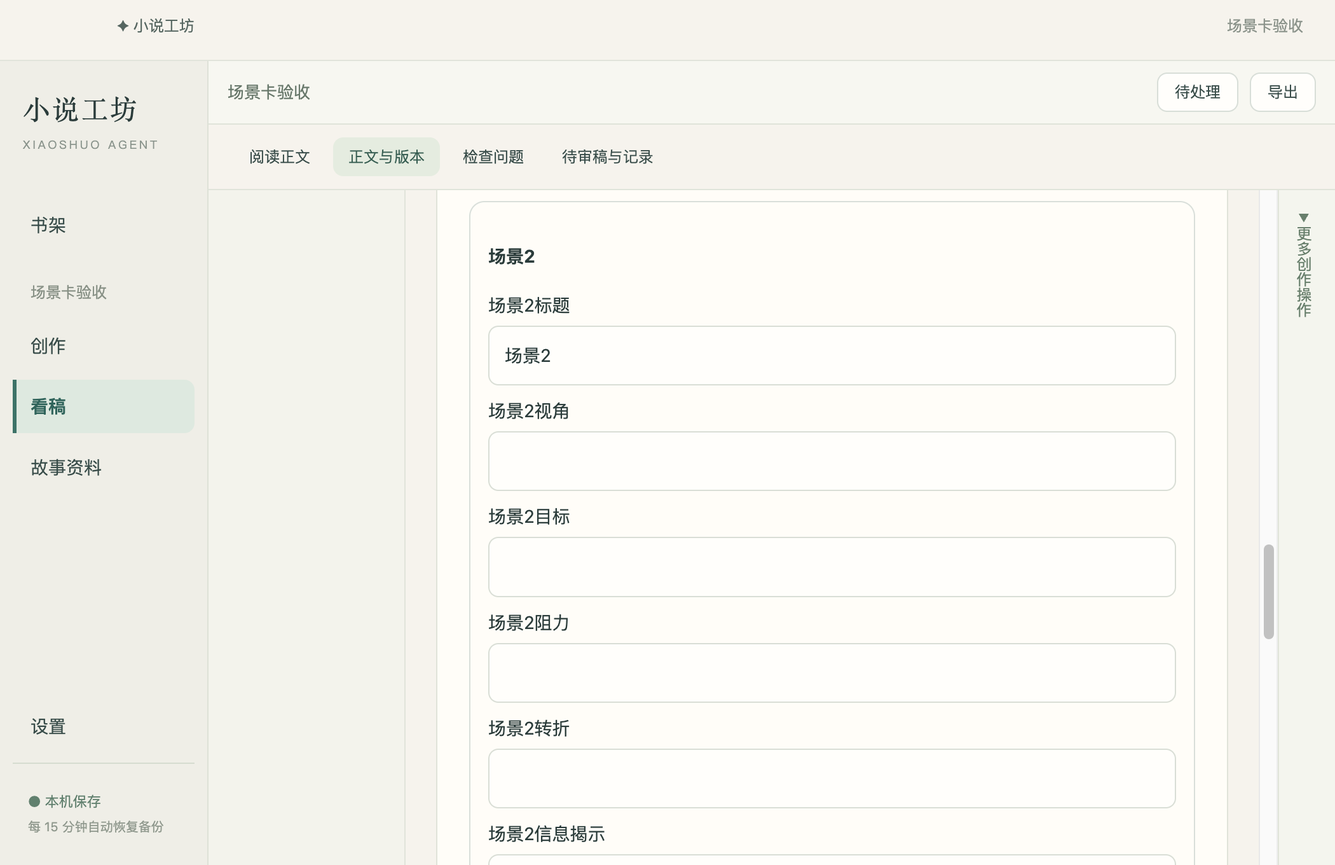
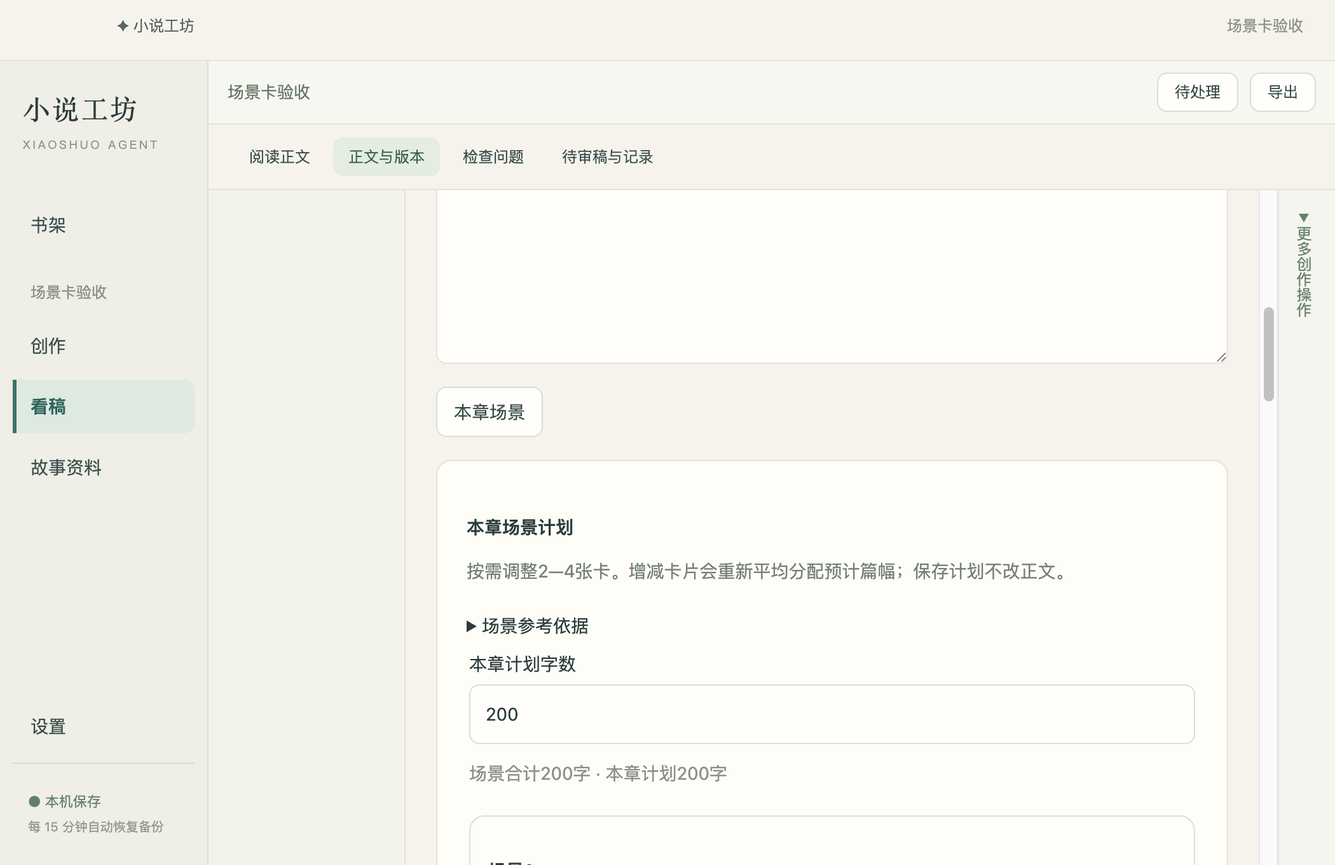
fix: enforce scene selection authority and per-chapter targets

diff --git a/tests/scene-revision.test.ts b/tests/scene-revision.test.ts
@@ -1,12 +1,20 @@
+import {createHash} from "node:crypto";
 import {afterEach,expect,it} from "vitest";import {AppServices} from "../src/main/services";
-import {createServer,type ServerResponse} from "node:http";import {mkdtempSync,rmSync} from "node:fs";import {join} from "node:path";import {tmpdir} from "node:os";
+import {createServer,type ServerResponse} from "node:http";import {mkdtempSync,rmSync,readFileSync,writeFileSync} from "node:fs";import {join} from "node:path";import {tmpdir} from "node:os";
 const cleanups:(()=>Promise<void>)[]=[];afterEach(async()=>{for(const f of cleanups.splice(0).reverse())await f();});
 const id=(r:any)=>{expect(r.ok,r.ok?"":r.error?.message).toBe(true);return r.entityId as string;};
 function reply(res:ServerResponse,data:any){res.setHeader("content-type","application/json");res.end(JSON.stringify({choices:[{message:{content:JSON.stringify(data)}}],usage:{prompt_tokens:10,completion_tokens:20,total_tokens:30}}));}
-async function setup(custom?:(data:any,res:ServerResponse)=>boolean){const calls:any[]=[];let path="";const server=createServer(async(req,res)=>{let raw="";for await(const c of req)raw+=c;const body=JSON.parse(raw),data=JSON.parse(body.messages.at(-1).content);calls.push(data);if(custom?.(data,res))return;reply(res,{message:"只调整视角与冲突。",replacement:"阿宁隔着门听见老周的呼吸，手停在锁上。"});});await new Promise<void>(r=>server.listen(0,"127.0.0.1",r));const dir=mkdtempSync(join(tmpdir(),"scene-revise-"));const app=new AppServices({dataDir:dir,dialogs:{open:async()=>path,save:async()=>path}});cleanups.push(async()=>{await app.dispose();await new Promise<void>(r=>{server.closeAllConnections();server.close(()=>r());});rmSync(dir,{recursive:true,force:true});});const projectId=id(await app.dispatch({type:"project.create",title:"旧城",chapterWords:200}));id(await app.dispatch({type:"profile.save",name:"fixture",purpose:"writing",model:"fixture",baseUrl:`http://127.0.0.1:${(server.address() as any).port}`}));const priorId=id(await app.dispatch({type:"chapter.create",projectId,ordinal:1,title:"信"}));const evidence="钥匙在阿宁手中。";id(await app.dispatch({type:"chapter.save",id:priorId,revision:1,content:evidence}));id(await app.dispatch({type:"chapter.confirm",id:priorId,revision:2}));const stateId=id(await app.dispatch({type:"story.save",projectId,entry:{kind:"item",subject:"钥匙",attribute:"持有人",value:"阿宁",statement:"fact",storyTime:""},evidence:[{chapterId:priorId,revision:3,start:0,end:evidence.length}]}));id(await app.dispatch({type:"story.confirm",id:stateId,revision:1}));const chapterId=id(await app.dispatch({type:"chapter.create",projectId,ordinal:2,title:"雨夜"}));const before="雨落在旧城。\n阿宁推开门。\n门外响起脚步。";id(await app.dispatch({type:"chapter.save",id:chapterId,revision:1,content:before}));const quote="阿宁推开门。",start=before.indexOf(quote);const cards=Array.from({length:2},(_,i)=>({title:`场景${i}`,pov:"阿宁",goal:"找信",obstacle:"锁门",turn:"解暗号",reveal:"旧城",words:100,hook:"脚步",...(i===0?{anchor:{chapterId,revision:2,start,end:start+quote.length,quote}}:{})}));const planId=id(await app.dispatch({type:"scene.save",projectId,chapterId,targetWords:200,cards}));return{app,projectId,chapterId,priorId,stateId,planId,before,calls,backup:async()=>{path=join(dir,"book.novel");id(await app.dispatch({type:"file.backup",projectId}));return id(await app.dispatch({type:"file.importBackup"}));}};}
+async function setup(custom?:(data:any,res:ServerResponse)=>boolean){const calls:any[]=[];let path="";const server=createServer(async(req,res)=>{let raw="";for await(const c of req)raw+=c;const body=JSON.parse(raw),data=JSON.parse(body.messages.at(-1).content);calls.push(data);if(custom?.(data,res))return;reply(res,{message:"只调整视角与冲突。",replacement:"阿宁隔着门听见老周的呼吸，手停在锁上。"});});await new Promise<void>(r=>server.listen(0,"127.0.0.1",r));const dir=mkdtempSync(join(tmpdir(),"scene-revise-"));const app=new AppServices({dataDir:dir,dialogs:{open:async()=>path,save:async()=>path}});cleanups.push(async()=>{await app.dispose();await new Promise<void>(r=>{server.closeAllConnections();server.close(()=>r());});rmSync(dir,{recursive:true,force:true});});const projectId=id(await app.dispatch({type:"project.create",title:"旧城",chapterWords:200}));id(await app.dispatch({type:"profile.save",name:"fixture",purpose:"writing",model:"fixture",baseUrl:`http://127.0.0.1:${(server.address() as any).port}`}));const priorId=id(await app.dispatch({type:"chapter.create",projectId,ordinal:1,title:"信"}));const evidence="钥匙在阿宁手中。";id(await app.dispatch({type:"chapter.save",id:priorId,revision:1,content:evidence}));id(await app.dispatch({type:"chapter.confirm",id:priorId,revision:2}));const stateId=id(await app.dispatch({type:"story.save",projectId,entry:{kind:"item",subject:"钥匙",attribute:"持有人",value:"阿宁",statement:"fact",storyTime:""},evidence:[{chapterId:priorId,revision:3,start:0,end:evidence.length}]}));id(await app.dispatch({type:"story.confirm",id:stateId,revision:1}));const chapterId=id(await app.dispatch({type:"chapter.create",projectId,ordinal:2,title:"雨夜"}));const before="雨落在旧城。\n阿宁推开门。\n门外响起脚步。";id(await app.dispatch({type:"chapter.save",id:chapterId,revision:1,content:before}));const quote="阿宁推开门。",start=before.indexOf(quote);const cards=Array.from({length:2},(_,i)=>({title:`场景${i}`,pov:"阿宁",goal:"找信",obstacle:"锁门",turn:"解暗号",reveal:"旧城",words:100,hook:"脚步",...(i===0?{anchor:{chapterId,revision:2,start,end:start+quote.length,quote}}:{})}));const planId=id(await app.dispatch({type:"scene.save",projectId,chapterId,targetWords:200,cards}));return{app,dir,projectId,chapterId,priorId,stateId,planId,before,calls,backup:async(tamper?:(pack:any)=>void)=>{path=join(dir,"book.novel");id(await app.dispatch({type:"file.backup",projectId}));if(tamper){const pack=JSON.parse(readFileSync(path,"utf8"));tamper(pack);pack.sha256=createHash("sha256").update(JSON.stringify(pack.payload)).digest("hex");writeFileSync(path,JSON.stringify(pack));}const result=await app.dispatch({type:"file.importBackup"});if(!result.ok)throw Error(result.error.message);return result.entityId;}};}
 async function start(f:Awaited<ReturnType<typeof setup>>){const p=f.app.scenePlan(f.planId);return id(await f.app.dispatch({type:"scene.revise",id:p.id,revision:p.revision,cardId:p.cards[0].id,text:"只调整此场景视角，补足锁门的阻力，不改变剧情方向",tokenBudget:100000}));}
 async function done(app:AppServices,jid:string){await expect.poll(()=>app.snapshot().revisionJobs?.find(j=>j.id===jid)?.status).not.toBe("running");return app.snapshot().revisionJobs!.find(j=>j.id===jid)!;}
 it("keeps the exact prefix, suffix and title and requires author adoption of a scene replacement",async()=>{const f=await setup(),jid=await start(f),j=await done(f.app,jid);expect(j.status,j.reply).toBe("awaiting-author");expect(j.candidates[0].content).toBe(f.before.replace("阿宁推开门。","阿宁隔着门听见老周的呼吸，手停在锁上。"));expect(f.app.snapshot().chapters.find(c=>c.id===f.chapterId)?.content).toBe(f.before);expect(f.calls[0].scene.goal).toBe("找信");id(await f.app.dispatch({type:"revision.accept",id:jid,chapterIds:[f.chapterId]}));expect(f.app.snapshot().chapters.find(c=>c.id===f.chapterId)?.title).toBe("雨夜");expect(f.app.snapshot().chapters.find(c=>c.id===f.chapterId)?.content).toBe(j.candidates[0].content);});
 it.each(["plan","chapter","state"])("blocks stale scene adoption after %s changes",async kind=>{const f=await setup(),jid=await start(f);await done(f.app,jid);if(kind==="plan"){const p=f.app.scenePlan(f.planId);id(await f.app.dispatch({type:"scene.save",id:p.id,revision:p.revision,projectId:p.projectId,chapterId:p.chapterId,targetWords:200,cards:p.cards.map(c=>({...c,goal:"保留作者的新目标"}))}));}else if(kind==="chapter")id(await f.app.dispatch({type:"chapter.save",id:f.chapterId,revision:2,content:f.before+"作者新句。"}));else id(await f.app.dispatch({type:"story.archive",id:f.stateId,revision:2,archived:true}));expect((await f.app.dispatch({type:"revision.accept",id:jid,chapterIds:[f.chapterId]})).ok).toBe(false);expect(f.app.snapshot().chapters.find(c=>c.id===f.chapterId)?.content).not.toContain("手停在锁上");});
 it("pauses for a major direction decision and never treats it as a replacement",async()=>{const f=await setup((_d,res)=>{reply(res,{message:"需要作者决定",majorChange:true,reason:"是否改变主角身份？"});return true;}),j=await done(f.app,await start(f));expect(j.status,j.reply).toBe("awaiting-author");expect(j.reply).toContain("主角身份");expect(j.candidates).toEqual([]);expect(f.app.snapshot().chapters.find(c=>c.id===f.chapterId)?.content).toBe(f.before);});
 it("remaps imported scene revision references and allows adoption in an unchanged copy",async()=>{const f=await setup(),jid=await start(f);await done(f.app,jid);const pid=await f.backup(),j=f.app.snapshot().revisionJobs!.find(j=>j.projectId===pid)!;expect(j.sceneSource?.id).not.toBe(f.planId);const p=f.app.scenePlan(j.sceneSource!.id);expect(j.sceneSource?.cardId).toBe(p.cards[0].id);id(await f.app.dispatch({type:"revision.accept",id:j.id,chapterIds:j.chapterIds}));expect(f.app.snapshot().chapters.find(c=>c.id===p.chapterId)?.content).toContain("手停在锁上");});
+
+it("rejects an imported scene candidate that changes prose outside its selection",async()=>{const f=await setup();await done(f.app,await start(f));await expect(f.backup(pack=>{pack.payload.revisionJobs[0].candidates[0].content="把整章原文都替换掉。";})).rejects.toThrow(/场景|片段|范围/);expect(f.app.snapshot().projects).toHaveLength(1);});
+it("rejects a raw revision command whose selection does not match its bound scene card",async()=>{const f=await setup(),p=f.app.scenePlan(f.planId),quote="雨落在旧城。";const result=await f.app.dispatch({type:"revision.start",projectId:f.projectId,scope:"selection",chapterIds:[f.chapterId],selection:{chapterId:f.chapterId,revision:2,start:0,end:quote.length,quote},sceneSource:{id:p.id,revision:p.revision,cardId:p.cards[0].id},text:"不允许用场景卡权限改其他片段",tokenBudget:100000});expect(result.ok).toBe(false);expect(f.calls).toHaveLength(0);});
+it("rejects an imported scene candidate that changes only the chapter title",async()=>{const f=await setup();await done(f.app,await start(f));await expect(f.backup(pack=>{pack.payload.revisionJobs[0].candidates[0].title="越权标题";})).rejects.toThrow(/场景|标题|片段|范围/);});
+it("keeps completed historical scene drafts importable after old plan frames are trimmed",async()=>{const f=await setup(),jid=await start(f);await done(f.app,jid);id(await f.app.dispatch({type:"revision.accept",id:jid,chapterIds:[f.chapterId]}));for(let i=0;i<52;i++){const p=f.app.scenePlan(f.planId);id(await f.app.dispatch({type:"scene.save",id:p.id,revision:p.revision,projectId:p.projectId,chapterId:p.chapterId,targetWords:200,cards:p.cards.map(({anchor,...c})=>({...c,goal:`新的方向${i}`}))}));}expect(f.app.scenePlan(f.planId).history.some(h=>h.revision===1)).toBe(false);const pid=await f.backup();expect(f.app.snapshot().revisionJobs?.find(j=>j.projectId===pid)?.status).toBe("completed");});
+
+it.each(["body","title"])("defends scene adoption against a damaged stored %s candidate",async kind=>{const {DatabaseSync}=await import("node:sqlite");const f=await setup(),jid=await start(f),j=await done(f.app,jid);if(kind==="body")j.candidates[0].content="越权整章替换。";else j.candidates[0].title="越权标题";const db=new DatabaseSync(join(f.dir,"works.sqlite"));db.prepare("UPDATE revisionJobs SET json=? WHERE id=?").run(JSON.stringify(j),jid);db.close();expect((await f.app.dispatch({type:"revision.accept",id:jid,chapterIds:[f.chapterId]})).ok).toBe(false);expect(f.app.snapshot().chapters.find(c=>c.id===f.chapterId)?.content).toBe(f.before);});

diff --git a/src/main/writing.ts b/src/main/writing.ts
@@ -244,8 +244,9 @@ export class WritingRunner {
     throw new ProviderError("EMPTY", "模型没有返回有效内容");
   }
   private input(j: WritingJob, context: BuiltContext, ordinal?: number) {
-    const target = this.project(j.projectId).chapterWords;
+    const projectTarget = this.project(j.projectId).chapterWords;
     const current = ordinal ? this.store.selectByProject("chapters", j.projectId).find(c => c.ordinal === ordinal) : undefined;
+    const target=current?new SceneService(this.store).targetWords(current.id,projectTarget):projectTarget;
     return { instruction: j.text, ordinal, chapterWords: target, wordLimit: { min: Math.ceil(target * .8), max: Math.floor(target * 1.2), current: words(current?.content ?? ""), counting: "content中的汉字、标点均计入；不计空格换行和标题" }, goal: j.goal, plan: j.plan, context: context.text, pendingIssues: j.issues };
   }
   private async plan(id: string, signal: AbortSignal) {
@@ -273,12 +274,14 @@ export class WritingRunner {
     }
     const source = this.context(j, progress.ordinal), context = this.bounded(j, source, existing?.content.trim() ? existing.id : undefined);
     this.update(id, { reply: `${revising ? "正在修订" : "正在写作"}第${progress.ordinal}章${revising ? `（第${progress.revisionRounds + 1}/2轮）` : ""}` });
-    const sceneService=new SceneService(this.store),scenePlan=existing?sceneService.forChapter(existing.id):undefined;
+    const sceneService=new SceneService(this.store);
+    const planAtTarget=()=>{const ch=this.store.chapterMetadata(j.projectId).find(c=>c.ordinal===progress.ordinal);return ch?sceneService.forChapter(ch.id):undefined;};
+    const scenePlan=planAtTarget();
     if(scenePlan&&!sceneService.current(scenePlan))throw new WritingPause("本章场景依据已改变，请编辑保存或重新规划后继续");
     const generationInput={...this.input(j,context,progress.ordinal),...(scenePlan?{scenePlan:{targetWords:scenePlan.targetWords,cards:scenePlan.cards}}:{})};
-    const checkScene=()=>{if(scenePlan&&sceneService.record(scenePlan.id).revision!==scenePlan.revision)throw new DomainError("CONFLICT","场景计划在生成期间已改变，旧回复未写入");};
+    const checkScene=()=>{const current=planAtTarget();if(current?.id!==scenePlan?.id||current?.revision!==scenePlan?.revision)throw new DomainError("CONFLICT","场景计划在生成期间已改变，旧回复未写入");};
     const raw = await this.call(id, revising ? "修订" : "生成", generationInput,
-      '先按输入scenePlan组织本章；未提供时先构思2—4张场景卡再写正文，不要求作者逐卡确认。只返回JSON {"scenes":[{"title":"场景名","pov":"视角","goal":"目标","obstacle":"阻力","turn":"转折","reveal":"信息揭示","words":100,"hook":"转场或章末钩子","quote":"本章该场景中连续逐字原文"}],"title":"章节标题","content":"本章完整正文","majorChange":false,"reason":""}。scenes可选，卡片words合计等于chapterWords，其他每字段最多400字符；按篇幅优先删冗余描写或补冲突，衔接场景且不重复揭示同一信息。可选states最多20项，每项kind=event|location|condition|item|knowledge|relationship|foreshadowing、subject、attribute（knowledge用具体信息主题）、value、statement=fact|plan|guess|lie|recollection、storyTime（没有则空字符串）、quote（本章连续逐字最短原文）；伏笔另带foreshadowingStage=planned|planted|progressing|abandoned，planned须plan，埋设推进须fact。回收先提为event事实候选，不输出resolved；作者将在伏笔页面绑定埋设和回收双证据。只提议候选，不修改已确认记录。不套type/content外壳，不添加其他字段。只完成指定ordinal章节，不输出摘要或其他章节。content严格控制在wordLimit.min到wordLimit.max个字符内，汉字和标点都计数、空白不计；当前字数见wordLimit.current。字数上限较短时只展开本章最必要场景，超过上限的修订应删除冗余描写而非继续增加情节。修订时保留仍有效内容并解决pendingIssues，不擅自推翻已确认人设、主线和结局；必须变更时返回majorChange=true及具体reason，不输出改稿。', Math.min(32000, Math.max(1024, this.project(j.projectId).chapterWords * 3)), signal, false, context.documents.flatMap(d=>d.reference ? [d.reference] : []));
+      '先按输入scenePlan组织本章；未提供时先构思2—4张场景卡再写正文，不要求作者逐卡确认。只返回JSON {"scenes":[{"title":"场景名","pov":"视角","goal":"目标","obstacle":"阻力","turn":"转折","reveal":"信息揭示","words":100,"hook":"转场或章末钩子","quote":"本章该场景中连续逐字原文"}],"title":"章节标题","content":"本章完整正文","majorChange":false,"reason":""}。scenes可选，卡片words合计等于chapterWords，其他每字段最多400字符；按篇幅优先删冗余描写或补冲突，衔接场景且不重复揭示同一信息。可选states最多20项，每项kind=event|location|condition|item|knowledge|relationship|foreshadowing、subject、attribute（knowledge用具体信息主题）、value、statement=fact|plan|guess|lie|recollection、storyTime（没有则空字符串）、quote（本章连续逐字最短原文）；伏笔另带foreshadowingStage=planned|planted|progressing|abandoned，planned须plan，埋设推进须fact。回收先提为event事实候选，不输出resolved；作者将在伏笔页面绑定埋设和回收双证据。只提议候选，不修改已确认记录。不套type/content外壳，不添加其他字段。只完成指定ordinal章节，不输出摘要或其他章节。content严格控制在wordLimit.min到wordLimit.max个字符内，汉字和标点都计数、空白不计；当前字数见wordLimit.current。字数上限较短时只展开本章最必要场景，超过上限的修订应删除冗余描写而非继续增加情节。修订时保留仍有效内容并解决pendingIssues，不擅自推翻已确认人设、主线和结局；必须变更时返回majorChange=true及具体reason，不输出改稿。', Math.min(32000, Math.max(1024, generationInput.chapterWords * 3)), signal, false, context.documents.flatMap(d=>d.reference ? [d.reference] : []));
     const result = parseObject(raw, ["title", "content", "majorChange", "reason", "states", "scenes"]); checkScene(); this.checkSources(source.sources,source.storyStamp,this.job(id).projectId); this.assertRunning(id, signal);
     if (result.majorChange) { this.update(id, { status: "awaiting-author", reply: String(result.reason) }); return; }
     if (typeof result.content !== "string" || !result.content.trim() || result.content.length > 200000 || typeof result.title !== "string" || !result.title.trim() || result.title.length > 200)
@@ -303,7 +306,7 @@ export class WritingRunner {
       }
       const p = this.project(j.projectId), workflow = readAuthoring(this.store.snapshot(), p);
       if (!workflow.writingStarted || workflow.activeStage !== "writing") this.store.put("projects", { ...p, revision: p.revision + 1, updatedAt: new Date().toISOString(), authoring: { ...workflow, writingStarted: true, activeStage: "writing" } });
-      if(result.scenes!==undefined){const warnings=sceneService.capture(this.store.get("chapters",chapterId)!,result.scenes,p.chapterWords);this.update(id,{warnings:[...new Set([...this.job(id).warnings,...warnings])].slice(-100)});}
+      if(result.scenes!==undefined){const warnings=sceneService.capture(this.store.get("chapters",chapterId)!,result.scenes,generationInput.chapterWords);this.update(id,{warnings:[...new Set([...this.job(id).warnings,...warnings])].slice(-100)});}
       this.update(id, { phase: "checking", reviewCursor: 0,
         chapters: j.chapters.map((c, i) => i === j.cursor ? { ...c, chapterId, savedRevision: saved.revision, status: "written", revisionRounds: c.revisionRounds + (revising ? 1 : 0), checkedRevision: undefined } : c),
         issues: j.issues.filter(i => !i.evidence.some(e => e.source.kind === "chapter" && e.source.id === chapterId)),
@@ -323,7 +326,7 @@ export class WritingRunner {
     validateRevisionJob(candidate); this.store.put("revisionJobs", candidate); return candidate.id;
   }
   private lengthIssue(j: WritingJob, chapterId: string): WritingIssue[] {
-    const ch = this.store.get("chapters", chapterId)!, target = this.project(j.projectId).chapterWords, actual = words(ch.content);
+    const ch = this.store.get("chapters", chapterId)!, target = new SceneService(this.store).targetWords(chapterId,this.project(j.projectId).chapterWords), actual = words(ch.content);
     return actual >= target * .8 && actual <= target * 1.2 ? [] : [{ category: "length", impact: "local", reason: `第${ch.ordinal}章为${actual}字，目标${target}字（允许±20%）`, chapterId,
       evidence: [{ quote: ch.content.slice(0, 80), source: { kind: "chapter", id: ch.id, revision: ch.revision } }] }];
   }

diff --git a/src/main/scenes.ts b/src/main/scenes.ts
@@ -1,9 +1,10 @@
+import type {TextSelection} from "../shared/reader";
 import type { RevisionCommand } from "../shared/revision";
 import type { SceneSource, SceneCommand } from "../shared/scenes";
 import { randomUUID } from "node:crypto";
 import { Store } from "./store";
 import { DomainError } from "../shared/validation";
-import { validateSceneCards, validateSceneCommand, validateScenePlan } from "../shared/scenes";
+import { validateSceneCards, validateSceneCommand, validateScenePlan,validateSceneSelection } from "../shared/scenes";
 import type { SceneSave, ScenePlan, SceneCardDraft, SceneWorkspace } from "../shared/scenes";
 import type { Chapter, SourceRevision } from "../shared/types";
 import { buildContext, sourceCurrent } from "./context";
@@ -15,6 +16,7 @@ export class SceneService {
         throw new DomainError("CONFLICT", "作品不存在或已归档"); return c; }
     record(id: string) { const p = this.store.get("scenePlans", id); if (!p)
         throw new DomainError("NOT_FOUND", "场景计划不存在"); return p; }
+    targetWords(chapterId:string,fallback:number){return this.forChapter(chapterId)?.targetWords??fallback;}
     forChapter(chapterId: string) { return this.store.selectByProject("scenePlans", this.chapter(chapterId).projectId).find(p => p.chapterId === chapterId); }
     current(p: ScenePlan) { const state = this.store.snapshot(); return p.sources.every(s => sourceCurrent(state, s)) && storyStampCurrent(state, p.projectId, p.storyStamp) && p.cards.every(c => !c.anchor || this.anchorCurrent(c.anchor, p.chapterId)); }
     private anchorCurrent(a: NonNullable<SceneCardDraft["anchor"]>, chapterId: string) { const c = this.store.get("chapters", chapterId); return !!c && a.chapterId === chapterId && a.revision === c.revision && c.content.slice(a.start, a.end) === a.quote; }
@@ -56,8 +58,8 @@ export class SceneService {
     restore(id: string, revision: number, historyRevision: number) { const p = this.record(id); if (p.revision !== revision)
         throw new DomainError("CONFLICT", "场景计划已改变"); const h = p.history.find(h => h.revision === historyRevision); if (!h)
         throw new DomainError("NOT_FOUND", "场景历史不存在"); const ch = this.chapter(p.chapterId); const cards = h.cards.map(card => { const current = p.cards.find(v => v.id === card.id); const a = card.anchor; const start = a ? ch.content.indexOf(a.quote) : -1; return { ...card, ...(current ? { revision: current.revision } : {}), anchor: a && start >= 0 && ch.content.indexOf(a.quote, start + 1) < 0 ? { ...a, revision: ch.revision, start, end: start + a.quote.length } : undefined }; }); return this.save({ type: "scene.save", id: p.id, revision: p.revision, projectId: p.projectId, chapterId: p.chapterId, targetWords: h.targetWords, cards }); }
-    assertSource(source: SceneSource, projectId: string) { const p = this.record(source.id); if (p.projectId !== projectId || p.revision !== source.revision || !p.cards.some(c => c.id === source.cardId) || !this.current(p) || source.storyStamp && !storyStampCurrent(this.store.snapshot(), projectId, source.storyStamp))
-        throw new DomainError("CONFLICT", "场景计划或故事依据已改变，请重新生成定向候选稿"); return p; }
+    assertSource(source: SceneSource, projectId: string,selection?:TextSelection) { const p = this.record(source.id); if (p.projectId !== projectId || p.revision !== source.revision || !p.cards.some(c => c.id === source.cardId) || !this.current(p) || source.storyStamp && !storyStampCurrent(this.store.snapshot(), projectId, source.storyStamp))
+        throw new DomainError("CONFLICT", "场景计划或故事依据已改变，请重新生成定向候选稿"); validateSceneSelection(p,source,selection);return p; }
     revisionStart(c: Extract<SceneCommand, {
         type: "scene.revise";
     }>): Extract<RevisionCommand, {

diff --git a/tests/writing.test.ts b/tests/writing.test.ts
@@ -420,3 +420,6 @@ it("scenes: an author plan reaches the generation input and cannot be replaced b
   id(await f.app.dispatch({type:"scene.save",projectId:f.projectId,chapterId:ch,targetWords:120,cards:Array.from({length:2},(_,i)=>({title:`作者卡${i}`,pov:"阿宁",goal:"作者保留目标",obstacle:"锁门",turn:"解锁",reveal:"信",words:60,hook:"脚步"}))}));
   const j=await done(f.app,await start(f.app,f.projectId,"写完前一章"));expect(j.status,j.reply).toBe("completed");expect(f.calls.find(c=>c.phase.includes("连续写作·生成"))!.input.scenePlan.cards[0].goal).toBe("作者保留目标");expect(f.app.snapshot().scenePlans![0].cards[0].goal).toBe("作者保留目标");
 });
+
+it("scenes: the author per-chapter allocation controls generation and length verification",async()=>{const f=await setup((phase,input,res)=>{if(phase.includes("连续写作·生成")){reply(res,{title:"雨夜",content:"雨落在窗前。".repeat(100).slice(0,input.chapterWords),majorChange:false,reason:""});return true;}});const ch=id(await f.app.dispatch({type:"chapter.create",projectId:f.projectId,ordinal:1,title:"雨夜"}));id(await f.app.dispatch({type:"scene.save",projectId:f.projectId,chapterId:ch,targetWords:200,cards:Array.from({length:2},(_,i)=>({title:`场景${i}`,pov:"阿宁",goal:"找信",obstacle:"门锁",turn:"发现暗号",reveal:"旧城",words:100,hook:"脚步"}))}));const j=await done(f.app,await start(f.app,f.projectId,"写完前一章"));const input=f.calls.find(c=>c.phase.includes("连续写作·生成"))!.input;expect(input.chapterWords).toBe(200);expect(input.wordLimit).toMatchObject({min:160,max:240});expect(j.chapters[0].revisionRounds).toBe(0);expect(f.app.snapshot().chapters[0].content.length).toBe(200);});
+it("scenes: a newly added author plan blocks a generation that started without one",async()=>{let release:(()=>void)|undefined;const f=await setup((phase,_input,res)=>{if(phase.includes("连续写作·生成")){release=()=>reply(res,{title:"旧方向",content:"雨落在窗前。".repeat(20),majorChange:false,reason:""});return true;}});const ch=id(await f.app.dispatch({type:"chapter.create",projectId:f.projectId,ordinal:1,title:"开篇"}));const jid=await start(f.app,f.projectId,"写完前一章");await expect.poll(()=>!!release).toBe(true);id(await f.app.dispatch({type:"scene.save",projectId:f.projectId,chapterId:ch,targetWords:120,cards:Array.from({length:2},(_,i)=>({title:`新方向${i}`,pov:"阿宁",goal:"作者刚明确的新方向",obstacle:"锁门",turn:"暗号",reveal:"旧城",words:60,hook:"脚步"}))}));release!();const j=await done(f.app,jid);expect(j.status,j.reply).toBe("paused");expect(f.app.snapshot().chapters[0].content).toBe("");expect(f.app.snapshot().scenePlans![0].cards[0].goal).toBe("作者刚明确的新方向");});

diff --git a/src/main/scene-writing.ts b/src/main/scene-writing.ts
@@ -35,7 +35,7 @@ export class ScenePlanningRunner {
     private profile(id?: string) { const ps = this.store.list("profiles"), p = id ? this.store.get("profiles", id) : ps.find(p => p.purpose === "planning") ?? ps.find(p => p.purpose === "writing") ?? ps[0]; if (!p)
         throw new DomainError("VALIDATION", "请先配置可用AI连接"); return p; }
     start(c: Start) { validateSceneCommand(c); if (this.disposed)
-        throw new DomainError("CONFLICT", "应用正在关闭"); const ch = this.scenes.chapter(c.chapterId, c.projectId); this.available(ch.projectId); const plan = this.scenes.forChapter(ch.id), profile = this.profile(c.profileId), p = this.store.get("projects", ch.projectId)!; const dep = this.scenes.dependencies(ch); const now = new Date().toISOString(); const j: SceneJob = { id: randomUUID(), revision: 1, createdAt: now, updatedAt: now, projectId: ch.projectId, chapterId: ch.id, profileId: profile.id, ...(plan ? { basePlanId: plan.id, basePlanRevision: plan.revision } : {}), targetWords: Math.min(16000, p.chapterWords), text: c.text, sources: dep.sources, storyStamp: dep.storyStamp, status: "running", tokenBudget: c.tokenBudget, budgetUsed: 0, calls: 0, usage: null, reply: "准备本章场景卡，原计划与正文保留", warnings: [] }; this.store.put("sceneJobs", j); this.launch(j.id); return j.id; }
+        throw new DomainError("CONFLICT", "应用正在关闭"); const ch = this.scenes.chapter(c.chapterId, c.projectId); this.available(ch.projectId); const plan = this.scenes.forChapter(ch.id), profile = this.profile(c.profileId), p = this.store.get("projects", ch.projectId)!; const dep = this.scenes.dependencies(ch); const now = new Date().toISOString(); const j: SceneJob = { id: randomUUID(), revision: 1, createdAt: now, updatedAt: now, projectId: ch.projectId, chapterId: ch.id, profileId: profile.id, ...(plan ? { basePlanId: plan.id, basePlanRevision: plan.revision } : {}), targetWords: this.scenes.targetWords(ch.id,Math.min(16000,p.chapterWords)), text: c.text, sources: dep.sources, storyStamp: dep.storyStamp, status: "running", tokenBudget: c.tokenBudget, budgetUsed: 0, calls: 0, usage: null, reply: "准备本章场景卡，原计划与正文保留", warnings: [] }; this.store.put("sceneJobs", j); this.launch(j.id); return j.id; }
     command(c: Extract<SceneCommand, {
         type: "scene.pause" | "scene.cancel" | "scene.resume";
     }>) {

diff --git a/tests/scene-writing.test.ts b/tests/scene-writing.test.ts
@@ -13,3 +13,5 @@ it.each(["chapter","plan"])("rejects late planning replies after concurrent %s e
 it("retains existing cards when a major direction change requires the author",async()=>{const f=await setup((_d,res)=>{reply(res,{cards:[],majorChange:true,reason:"是否改变主角身份？"});return true;}),jid=await start(f);expect((await done(f.app,jid)).status).toBe("awaiting-author");expect(f.app.sceneWorkspace(f.chapterId).plan).toBeUndefined();await new Promise(r=>setTimeout(r,25));expect((await f.app.dispatch({type:"scene.resume",id:jid})).ok).toBe(false);expect(f.calls).toHaveLength(1);});
 it("cancels a pending request without late cards",async()=>{const f=await setup(()=>true),jid=await start(f);await expect.poll(()=>f.calls.length).toBe(1);id(await f.app.dispatch({type:"scene.cancel",id:jid}));expect((await done(f.app,jid)).status).toBe("cancelled");expect(f.app.sceneWorkspace(f.chapterId).plan).toBeUndefined();});
 it("continues an imported paused planning job using a local connection without a startup call",async()=>{const {Store}=await import("../src/main/store"),{ProjectFiles}=await import("../src/main/files");const f=await setup(),jid=await start(f,1);await done(f.app,jid);const store=new Store(join(f.dir,"works.sqlite")),files=new ProjectFiles(store),path=join(f.dir,"import.novel");let pid:string;try{await files.backup(f.projectId,path);pid=await files.importBackup(path);}finally{store.close();}const job=f.app.snapshot().sceneJobs!.find(j=>j.projectId===pid)!;expect(job.profileId).toBeUndefined();expect(f.calls).toHaveLength(0);id(await f.app.dispatch({type:"scene.resume",id:job.id,tokenBudget:100000}));expect((await done(f.app,job.id)).status).toBe("completed");expect(f.calls).toHaveLength(1);});
+
+it("honors the author saved per-chapter target when explicitly regenerating scene plans",async()=>{const f=await setup((data,res)=>{reply(res,{cards:cs().map(c=>({...c,words:data.targetWords/2})),majorChange:false,reason:""});return true;});id(await f.app.dispatch({type:"scene.save",projectId:f.projectId,chapterId:f.chapterId,targetWords:2500,cards:cs().map(c=>({...c,words:1250}))}));const j=await done(f.app,await start(f));expect(j.targetWords).toBe(2500);expect(f.app.sceneWorkspace(f.chapterId).plan?.targetWords).toBe(2500);});

diff --git a/src/main/files.ts b/src/main/files.ts
@@ -1,4 +1,4 @@
-import {validateScenePlan,validateSceneJob} from "../shared/scenes";
+import {validateScenePlan,validateSceneJob,validateSceneSelection,validateSceneReplacement} from "../shared/scenes";
 import { validateStoryRecord, validateStoryJob } from "../shared/story-state";
 import { chapterDigest,storyContext,storyStampCurrent } from "./story-context";
 import { randomUUID, createHash } from "node:crypto";
@@ -1125,6 +1125,12 @@ function validateSceneOwnership(s:Portable):void{
   for(const p of s.scenePlans){validateScenePlan(p);const ch=chapters.get(p.chapterId);if(!ch||ch.projectId!==p.projectId)fail("场景章节归属不正确");
     for(const f of [p,...p.history]){references(f);for(const card of f.cards){const owner=owners.get(card.id);if(owner&&owner!==p.id)fail("场景卡身份重复");owners.set(card.id,p.id);const a=card.anchor;if(a&&(a.chapterId!==ch.id||a.revision===ch.revision&&(a.end>ch.content.length||ch.content.slice(a.start,a.end)!==a.quote)))fail("场景绑定原文不正确");}}
   }
-  for(const j of s.revisionJobs)if(j.sceneSource){const p=plans.get(j.sceneSource.id);if(!p||p.projectId!==j.projectId||!j.chapterIds.includes(p.chapterId)||![p,...p.history].some(f=>f.cards.some(c=>c.id===j.sceneSource!.cardId)))fail("定向场景改稿引用不正确");}
+  for(const j of s.revisionJobs)if(j.sceneSource){
+    const p=plans.get(j.sceneSource.id),owner=owners.get(j.sceneSource.cardId);
+    if(!p||p.projectId!==j.projectId||!j.chapterIds.includes(p.chapterId)||owner&&owner!==p.id)fail("定向场景改稿引用不正确");
+    const completedHistory=["completed","cancelled"].includes(j.status)&&j.candidates.every(c=>c.status!=="pending");
+    validateSceneSelection(p,j.sceneSource,j.selection,completedHistory);
+    for(const c of j.candidates)validateSceneReplacement(j.selection,c);
+  }
   for(const j of s.sceneJobs){validateSceneJob(j);const ch=chapters.get(j.chapterId);if(!ch||ch.projectId!==j.projectId)fail("场景任务章节不正确");references(j);const p=j.basePlanId?plans.get(j.basePlanId):undefined;if(j.basePlanId&&(!p||p.projectId!==j.projectId||p.chapterId!==j.chapterId))fail("场景任务原计划引用不正确");}
 }

diff --git a/src/shared/scenes.ts b/src/shared/scenes.ts
@@ -147,3 +147,21 @@ export function validateSceneCommand(value: unknown): asserts value is SceneComm
         z.object({ type: z.literal("scene.revise"), id, revision: rev, cardId: id, text, tokenBudget: budget, profileId: id.optional() }).strict(),
     ]), value);
 }
+
+/** Scene revisions retain the original authority even after backup/import. */
+export function validateSceneReplacement(selection:TextSelection|undefined,candidate:{chapterId:ID;sourceRevision:number;title:string;baseTitle?:string;baseContent:string;content:string}):void {
+  if(!selection||candidate.chapterId!==selection.chapterId||candidate.sourceRevision!==selection.revision||candidate.baseTitle===undefined||candidate.title!==candidate.baseTitle||selection.end>candidate.baseContent.length||candidate.baseContent.slice(selection.start,selection.end)!==selection.quote)
+    throw new DomainError("VALIDATION","场景候选的原文范围或标题不正确");
+  const prefix=candidate.baseContent.slice(0,selection.start),suffix=candidate.baseContent.slice(selection.end);
+  if(candidate.content.length<prefix.length+suffix.length||!candidate.content.startsWith(prefix)||!candidate.content.endsWith(suffix))
+    throw new DomainError("VALIDATION","场景候选越过了绑定片段的修改范围");
+}
+export function validateSceneSelection(plan:ScenePlan,source:SceneSource,selection:TextSelection|undefined,completedHistory=false):void {
+  if(plan.id!==source.id||!selection||selection.chapterId!==plan.chapterId)throw new DomainError("VALIDATION","场景卡与实际选段不一致");
+  const frames=[plan,...plan.history],frame=frames.find(f=>f.revision===source.revision);
+  // Trimmed completed history is read-only: it cannot resume or acquire current authority.
+  if(!frame&&completedHistory&&source.revision<Math.min(...frames.map(f=>f.revision)))return;
+  const anchor=frame?.cards.find(c=>c.id===source.cardId)?.anchor;
+  if(!anchor||(["chapterId","revision","start","end","quote"] as const).some(k=>anchor[k]!==selection[k]))
+    throw new DomainError("VALIDATION","场景卡绑定原文与实际选段不一致");
+}

diff --git a/src/main/revision.ts b/src/main/revision.ts
@@ -1,5 +1,5 @@
 import {SceneService} from "./scenes";
-import {validateSceneSource} from "../shared/scenes";
+import {validateSceneSource,validateSceneReplacement} from "../shared/scenes";
 import { createHash, randomUUID } from "node:crypto";
 import type {
   AsyncCommand,
@@ -315,7 +315,7 @@ export class RevisionRunner {
       (c.profileId !== undefined && !idValue(c.profileId))
     )
       fail("改稿请求格式不正确");
-    if(c.sceneSource!==undefined){validateSceneSource(c.sceneSource);if(c.scope!=="selection")fail("场景改稿须限定原文片段");new SceneService(this.store).assertSource(c.sceneSource,c.projectId);}
+    if(c.sceneSource!==undefined){validateSceneSource(c.sceneSource);if(c.scope!=="selection")fail("场景改稿须限定原文片段");new SceneService(this.store).assertSource(c.sceneSource,c.projectId,c.selection);}
     const tokenBudget = budget(c.tokenBudget),
       p = this.project(c.projectId);
     if (
@@ -413,7 +413,7 @@ export class RevisionRunner {
     return p;
   }
   private sourceCheck(j: RevisionJob, chapterId?: string) {
-    if(j.sceneSource)new SceneService(this.store).assertSource(j.sceneSource,j.projectId);
+    if(j.sceneSource)new SceneService(this.store).assertSource(j.sceneSource,j.projectId,j.selection);
     const p = this.project(j.projectId);
     if (!j.sourceProjectDigest || projectHash(p) !== j.sourceProjectDigest)
       fail("作品设定已修改，改稿来源发生变化", "CONFLICT");
@@ -642,6 +642,7 @@ export class RevisionRunner {
     j: RevisionJob,
     c: RevisionCandidate,
   ): RevisionCandidate {
+    if(j.sceneSource)validateSceneReplacement(j.selection,c);
     const current = this.chapter(c.chapterId, j.projectId);
     if (
       current.content !== c.baseContent ||

diff --git a/src/shared/revision.ts b/src/shared/revision.ts
@@ -1,4 +1,4 @@
-import {validateSceneSource,type SceneSource} from "./scenes";
+import {validateSceneSource,validateSceneReplacement,type SceneSource} from "./scenes";
 import { DomainError, validatePublicJson } from "./validation";
 import type {
   ID,
@@ -374,6 +374,7 @@ export function validateRevisionJob(
       )
         bad();
     }
+    if(value.sceneSource)validateSceneReplacement(value.selection,c as unknown as RevisionCandidate);
     candidateIds.push(c.chapterId);
   }
   if (new Set(candidateIds).size !== candidateIds.length) bad();
